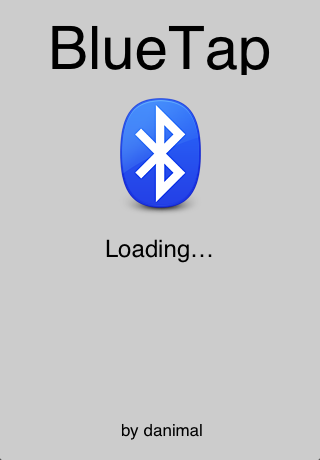
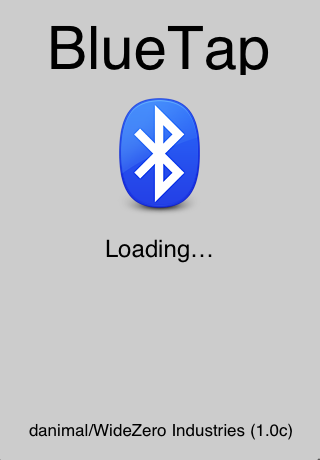
ready for adhoc release (1.0c) -update the info.plist to reflect version number -update the build target to do proper adhoc distribution -add setting the version number progromatically in the tagLabel -update the default.png -add an entitlement plist -add adhoc certificate -add adhoc instructions

diff --git a/BlueTap/Classes/BlueTapAppDelegate.m b/BlueTap/Classes/BlueTapAppDelegate.m
@@ -13,10 +13,12 @@
 @synthesize window;
 @synthesize btSharedInstance;
 @synthesize statusLabel;
+@synthesize tagLabel;
 @synthesize switchButton;
 
 - (void)applicationDidFinishLaunching:(UIApplication *)application 
-{    
+{   
+    [tagLabel setText:[NSString stringWithFormat:@"danimal/WideZero Industries (%@%@)", [[NSBundle mainBundle] objectForInfoDictionaryKey:@"CFBundleShortVersionString"], [[NSBundle mainBundle] objectForInfoDictionaryKey:@"CFBundleVersion"]]];
     btSharedInstance = [BluetoothManager sharedInstance];
     [self switchBluetoothStatus];
     // Override point for customization after application launch
@@ -42,6 +44,7 @@
 - (void)dealloc 
 {
     [statusLabel release];
+    [tagLabel release];
     [btSharedInstance release];
     [window release];
     [super dealloc];

diff --git a/BlueTap/Classes/BlueTapAppDelegate.h b/BlueTap/Classes/BlueTapAppDelegate.h
@@ -12,12 +12,14 @@
     UIWindow *window;
     id btSharedInstance;
     UILabel *statusLabel;
+    UILabel *tagLabel;
     UIButton *switchButton;
 }
 
 @property (nonatomic, retain) IBOutlet UIWindow *window;
 @property (nonatomic, retain) id btSharedInstance;
 @property (nonatomic, retain) IBOutlet UILabel *statusLabel;
+@property (nonatomic, retain) IBOutlet UILabel *tagLabel;
 @property (nonatomic, retain) IBOutlet UIButton *switchButton;
 
 - (IBAction)switchBluetoothStatus;
